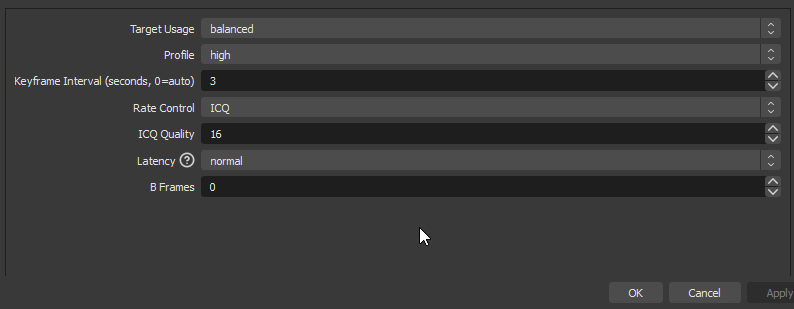
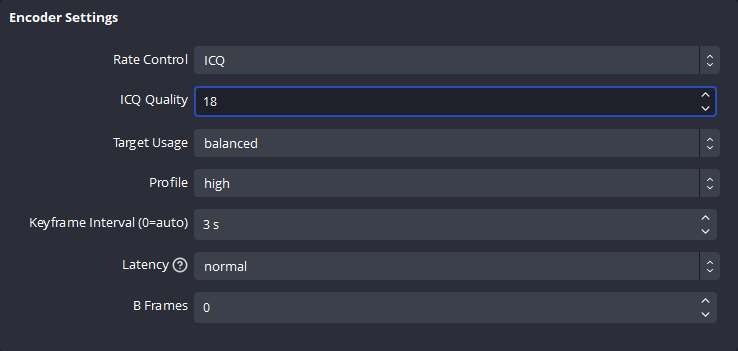
Update QSV Docs
Updated images and text.

Note: Pls help me test QSV HEVC on 11th gen or newer systems.

diff --git a/docs/video/obs/quicksync.md b/docs/video/obs/quicksync.md
@@ -26,23 +26,25 @@ Before following this, make sure that you've followed the [initial configuration
 
     <h3>Recording Settings</h3>
 
-    - **Video Encoder:** Use **Quicksync H.264**. 
+    - **Video Encoder:** Select the **Quicksync H.264** option. If you have an 11th gen or newer Intel CPU, you can select the **Quicksync HEVC** option instead.
 
     <h3>Encoder Settings</h3>
 
-    - **Target Usage** There is no visual difference between speed, balanced and quality as far as Shanki can tell.
+    - **Target Usage** Set to balanced, as quality slows down the encoding process with no visible quality difference. However performance has a noticeable impact on quality, and no performance gains. So it's best to leave it at balanced. 
 
-    - **Profile** Keep at high or baseline, there is no measurable performance difference between them in Shanki's testing on both Minecraft Bedrock (1.16.100-1.17.34) and Java editions (1.7.10)
+    - **Profile** Keep at high or baseline, as there is no measurable performance difference or quality difference. 
 
-    - **Keyframe Interval** Leave to 0 (auto) for the best performance, doing this will set the keyframe interval to 3 on the latest OBS version... so 3 is the actual best keyframe interval for recording at 60fps
+    - **Keyframe Interval** Leave to 0 (auto) or 3 for the best performance and quality. 
 
     - **Rate Control** Opposed to using CQP(6), It's preferable to use ICQ for best efficiency, as it will adapt the bitrate per frame.
 
-    - **ICQ Quality** Forget about size in bytes, quality ranges from 1 (practically lossless, huge file), to 30 (very lossy, small), the higher you go, the smaller the file. From Shanki's Testing he found that the sweet spot is around 14-16 depending on how much RAM and what your laptop's power throttling limit is (to achieve the same visual acuity as NVENC). 
+    - **ICQ Quality** Forget about size in bytes, quality ranges from 1 (practically lossless, huge file), to 30 (very lossy, small), the higher you go, the smaller the file. From testing, 15-18 is a good range for quality and filesize. However QSV will not reach the visual acuity of NVENC no matter how low you go, so it's best to save on performance and opt for higher numbers like 20-25 to ensure good performance while playing and recording. 
 
     - **Latency** Set this to normal, as you aren't streaming. This setting is useful for getting the delay as low as possible during live streams but since this is a recording, you will not be needing it to be set lower than normal.
 
-    - **Max-B-frames** Leave Max-B-frames to 0 in this context
+    - **Max-B-frames** Leave Max-B-frames to 0 for recording minecraft, however if you wish to play games with slower on screen movement, set it to 3.
+
+    > The following settings have been tested by `@ashanki` on Minecraft Bedrock Edition versions (1.16.100-1.20.12) & Minecraft Java Edition versions (1.7.10-1.20.1). If you have any questions or data to add to this (10), please contact `@ashanki` in the [CTT Discord](https://discord.gg/ctt).
 
 </div>
 
@@ -81,3 +83,5 @@ On newer GPUs, "baseline" may reduce encoding lag when recording at high FPS at 
 9. <font size="3">**:material-account-question: Why this preset?**</font>  
 Despite the name it doesn't affect your video quality. Our testing showed that "P1: Fastest (Lowest Quality)" results in the least encoding lag, but produces a bigger filesize. While "P7: Slowest (Best Quality)" significantly reduces the FPS you can record at, but results in a smaller filesize.
 
+10. <font size="3">** Request for data!**</font>
+If you have an Intel 11th gen or newer CPU, please contact `@ashanki` on the [CTT Discord](https://discord.gg/ctt) to help us gather data on the performance of Quicksync HEVC, as it remains largely untested.
